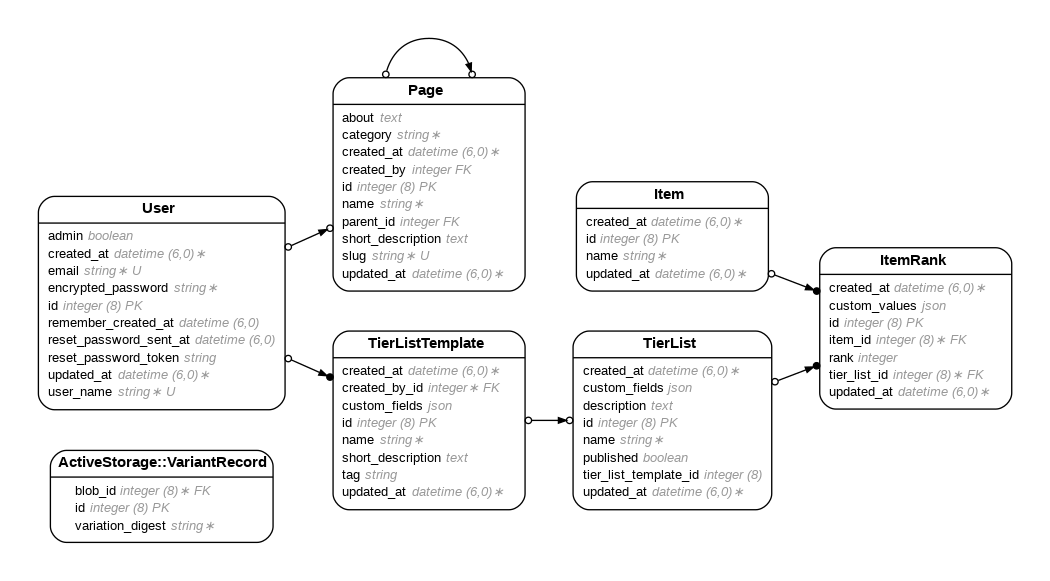
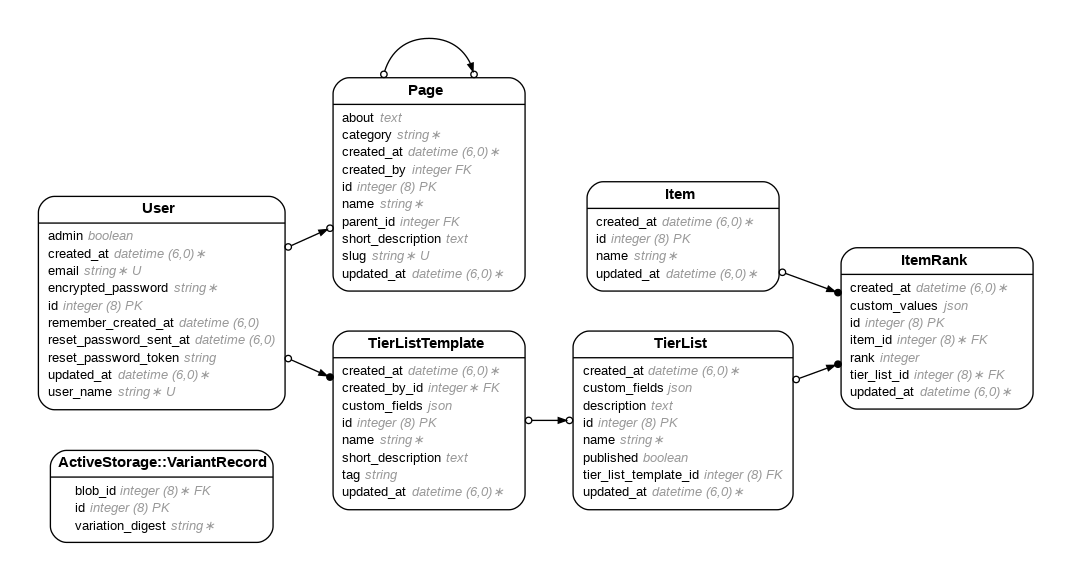
Create page and tier list associations

diff --git a/db/schema.rb b/db/schema.rb
@@ -10,7 +10,7 @@
 #
 # It's strongly recommended that you check this file into your version control system.
 
-ActiveRecord::Schema[7.1].define(version: 2025_01_02_153124) do
+ActiveRecord::Schema[7.1].define(version: 2025_01_03_211721) do
   # These are extensions that must be enabled in order to support this database
   enable_extension "plpgsql"
 
@@ -57,6 +57,18 @@ ActiveRecord::Schema[7.1].define(version: 2025_01_02_153124) do
     t.string "name"
     t.datetime "created_at", null: false
     t.datetime "updated_at", null: false
+  end
+
+  create_table "page_associations", force: :cascade do |t|
+    t.bigint "page_id", null: false
+    t.bigint "tier_list_id", null: false
+    t.string "association_type"
+    t.jsonb "metadata", default: {}
+    t.datetime "created_at", null: false
+    t.datetime "updated_at", null: false
+    t.index ["page_id", "tier_list_id"], name: "index_page_associations_on_page_id_and_tier_list_id", unique: true
+    t.index ["page_id"], name: "index_page_associations_on_page_id"
+    t.index ["tier_list_id"], name: "index_page_associations_on_tier_list_id"
   end
 
   create_table "pages", force: :cascade do |t|
@@ -115,5 +127,7 @@ ActiveRecord::Schema[7.1].define(version: 2025_01_02_153124) do
   add_foreign_key "active_storage_variant_records", "active_storage_blobs", column: "blob_id"
   add_foreign_key "item_ranks", "items"
   add_foreign_key "item_ranks", "tier_lists"
+  add_foreign_key "page_associations", "pages"
+  add_foreign_key "page_associations", "tier_lists"
   add_foreign_key "tier_lists", "tier_list_templates"
 end

diff --git a/app/controllers/admin/pages_controller.rb b/app/controllers/admin/pages_controller.rb
@@ -1,6 +1,7 @@
 class Admin::PagesController < ApplicationController
   before_action :authenticate_user!
   before_action :authorize_admin
+  before_action :set_page, only: [:manage_tier_lists, :update_tier_list_associations]
 
   def index
     @pages = Page.all
@@ -40,7 +41,30 @@ class Admin::PagesController < ApplicationController
     redirect_to admin_pages_path, notice: "Page deleted successfully."
   end
 
+  def manage_tier_lists
+    @tier_lists = TierList.all
+    @associated_tier_lists = @page.tier_lists
+  end
+
+  def update_tier_list_associations
+    selected_tier_list_ids = params[:page][:tier_list_ids] || []
+
+    # Remove unselected associations
+    @page.page_associations.where.not(tier_list_id: selected_tier_list_ids).destroy_all
+
+    # Add new associations
+    selected_tier_list_ids.each do |tier_list_id|
+      @page.page_associations.find_or_create_by(tier_list_id: tier_list_id)
+    end
+
+    redirect_to admin_pages_path, notice: 'Tier List associations updated successfully.'
+  end
+
   private
+
+  def set_page
+    @page = Page.find(params[:id])
+  end
 
   def authorize_admin
     redirect_to root_path, alert: "You are not authorized to view this page." unless current_user.admin?

diff --git a/db/migrate/20250103211721_create_page_associations.rb b/db/migrate/20250103211721_create_page_associations.rb
@@ -1,0 +1,14 @@
+class CreatePageAssociations < ActiveRecord::Migration[7.1]
+  def change
+    create_table :page_associations do |t|
+      t.references :page, null: false, foreign_key: true
+      t.references :tier_list, null: false, foreign_key: true
+      t.string :association_type # Optional, for future associations
+      t.jsonb :metadata, default: {} # Optional, to store extra info
+
+      t.timestamps
+    end
+
+    add_index :page_associations, [:page_id, :tier_list_id], unique: true
+  end
+end

diff --git a/config/routes.rb b/config/routes.rb
@@ -24,7 +24,12 @@ Rails.application.routes.draw do
     get 'dashboard', to: 'dashboard#index'
     resources :users, only: [:index, :edit, :update, :destroy]
     resources :settings, only: [:index, :update]
-    resources :pages
+    resources :pages do
+      member do
+        get :manage_tier_lists
+        patch :update_tier_list_associations
+      end
+    end
     resources :tier_list_templates
     resources :tier_lists do
       member do

diff --git a/app/models/tier_list.rb b/app/models/tier_list.rb
@@ -25,6 +25,9 @@ class TierList < ApplicationRecord
   has_many :items, through: :item_ranks
   belongs_to :tier_list_template, optional: true
 
+  has_many :page_associations, dependent: :destroy
+  has_many :pages, through: :page_associations
+
   validates :name, presence: true
   validates :published, inclusion: { in: [true, false] }
 

diff --git a/app/models/page.rb b/app/models/page.rb
@@ -24,6 +24,9 @@ class Page < ApplicationRecord
   has_one_attached :cover_image
   has_one_attached :profile_image
 
+  has_many :page_associations, dependent: :destroy
+  has_many :tier_lists, through: :page_associations
+
   # Custom validation for cover_image
   validate :acceptable_cover_image
   validate :acceptable_profile_image

diff --git a/app/controllers/admin/tier_lists_controller.rb b/app/controllers/admin/tier_lists_controller.rb
@@ -66,7 +66,6 @@ class Admin::TierListsController < ApplicationController
   end
 
   def create
-    template_id = params[:tier_list].delete(:tier_list_template_id)
     @tier_list = TierList.new(tier_list_params)
   
     if template_id.present?

diff --git a/app/models/page_association.rb b/app/models/page_association.rb
@@ -1,0 +1,6 @@
+class PageAssociation < ApplicationRecord
+  belongs_to :page
+  belongs_to :tier_list
+
+  validates :page_id, uniqueness: { scope: :tier_list_id, message: 'This association already exists.' }
+end
